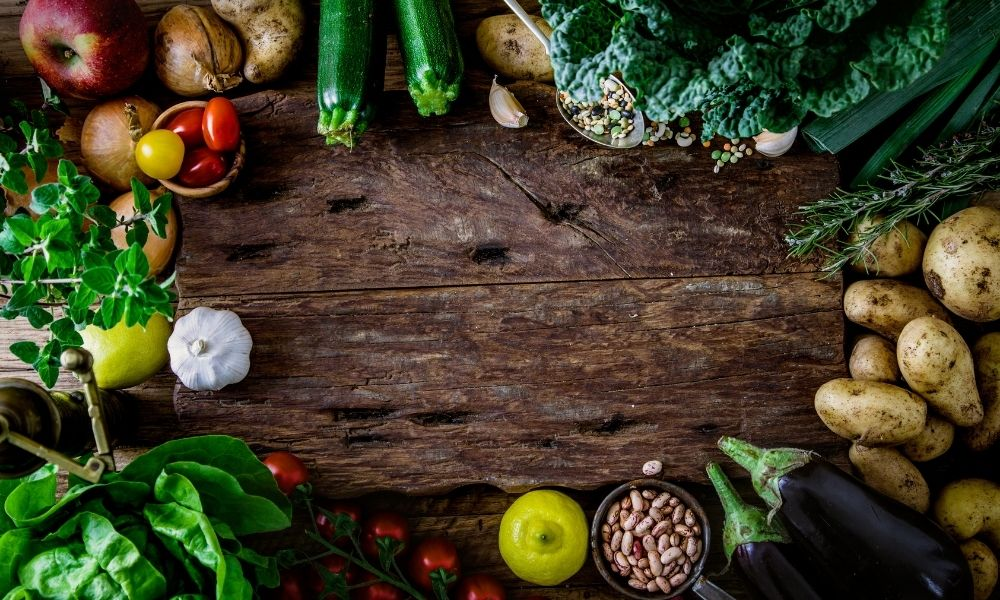
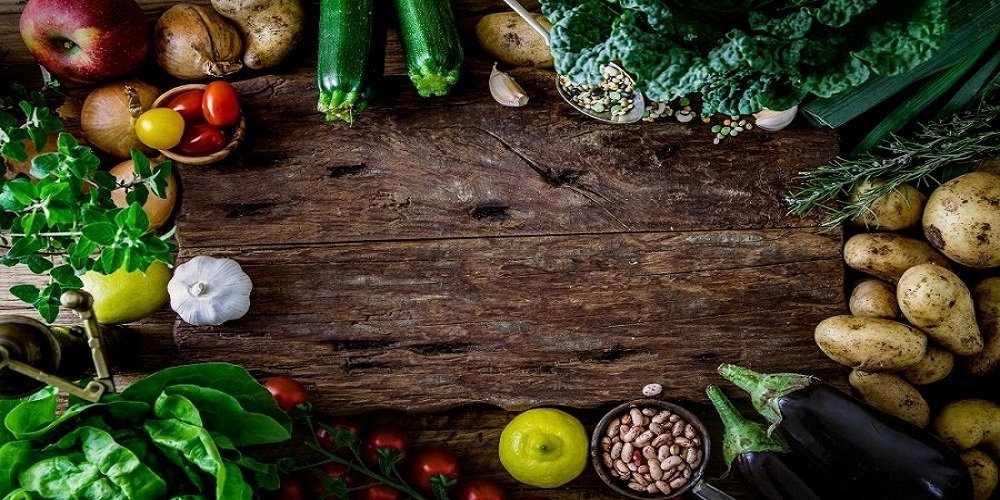
modifiqué las imagenes del carousel para optimizar el index.html

diff --git a/index.html b/index.html
@@ -79,10 +79,10 @@
                             </div>
 					    </div>
 					    <div class="carousel-item">
-					      <img src="assets/images/foto_portada_carousel2.png" class="d-block w-100" alt="hamburguesas">
+					      <img src="assets/images/foto_portada_carousel_2_72dpi.jpg" class="d-block w-100" alt="hamburguesas">
 					    </div>
 					    <div class="carousel-item">
-					      <img src="assets/images/foto_portada_carousel3.png" class="d-block w-100" alt="helados">
+					      <img src="assets/images/foto_portada_carousel_3_72dpi.jpg" class="d-block w-100" alt="helados">
 					    </div>
 					  </div>
 					  <a class="carousel-control-prev" href="#carouselExampleIndicators" role="button" data-slide="prev">
